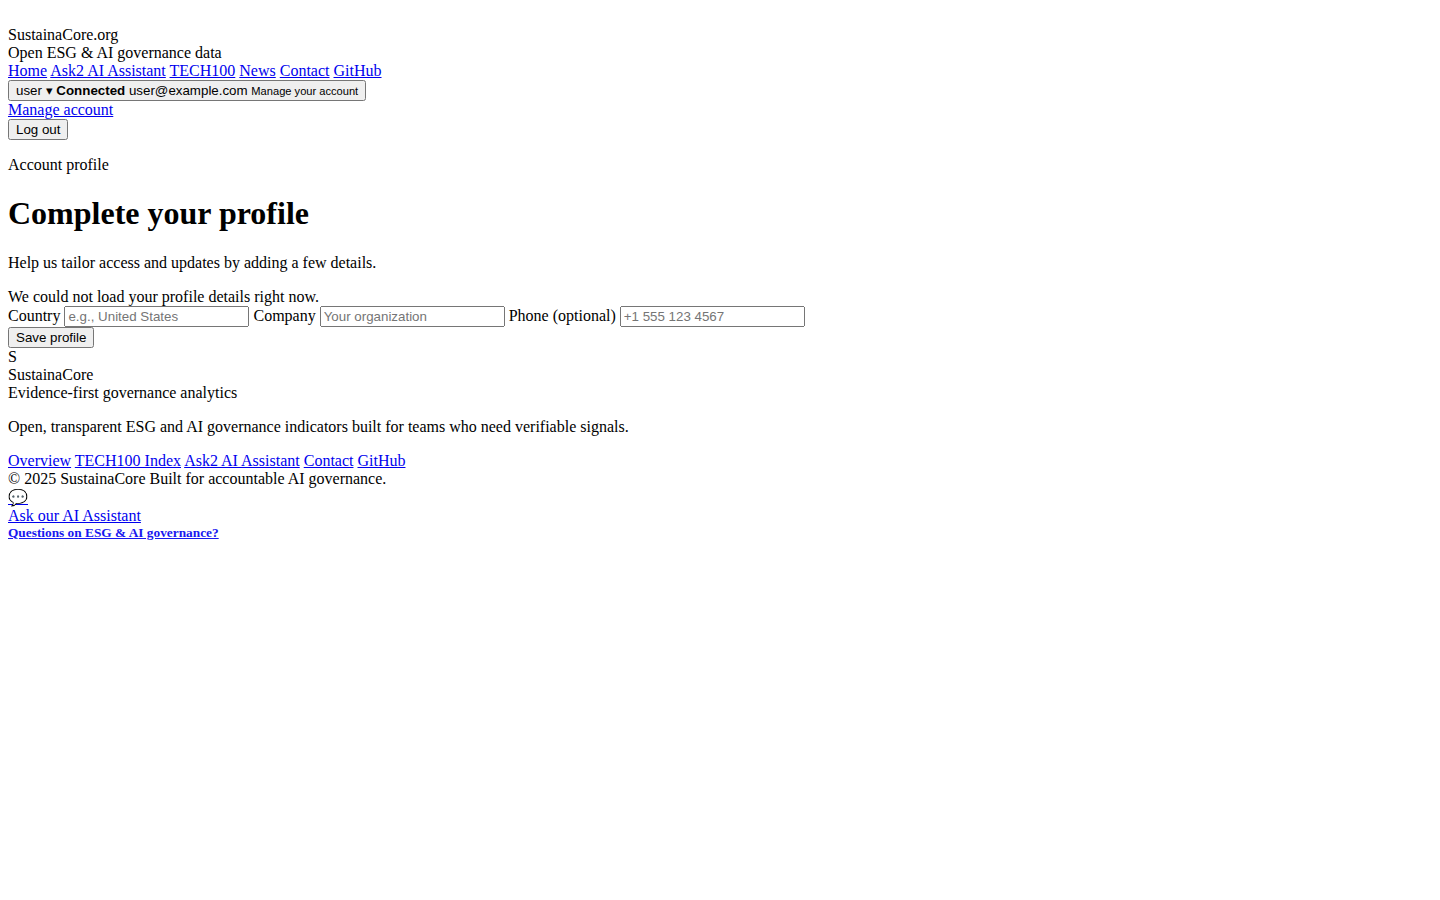
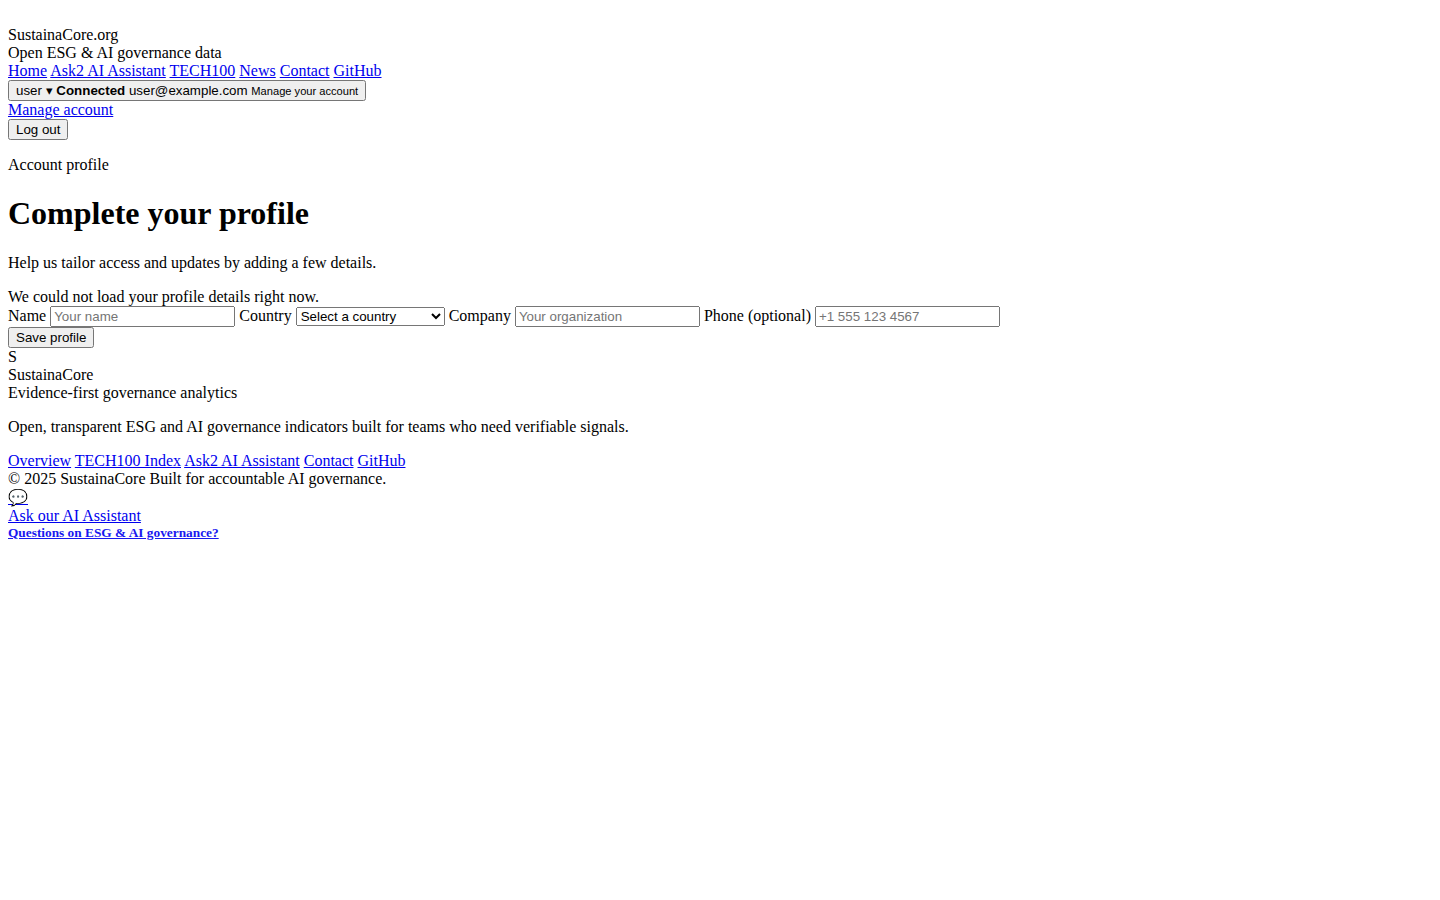
Add name field and optional profile inputs

Changed region(s): [[0.1562, 0.3422, 0.6562, 0.3733], [0.0, 0.3422, 0.125, 0.3733]]

diff --git a/website_django/templates/account.html b/website_django/templates/account.html
@@ -20,6 +20,12 @@
         </div>
         {% endif %}
 
+        {% if profile_empty and not missing_email %}
+        <div class="alert alert--info">
+            Your profile is currently empty. Add details to keep your account up to date.
+        </div>
+        {% endif %}
+
         {% if error %}
         <div class="alert alert--error">{{ error }}</div>
         {% endif %}
@@ -28,8 +34,29 @@
             <form method="post" class="auth-form">
                 {% csrf_token %}
                 <label>
+                    Name
+                    <input type="text" name="name" value="{{ profile.name }}" placeholder="Your name" {% if missing_email %}disabled{% endif %} />
+                </label>
+                <label>
                     Country
-                    <input type="text" name="country" value="{{ profile.country }}" placeholder="e.g., United States" {% if missing_email %}disabled{% endif %} />
+                    <select name="country" {% if missing_email %}disabled{% endif %}>
+                        <option value="">Select a country</option>
+                        <option value="United Kingdom" {% if profile.country == "United Kingdom" %}selected{% endif %}>United Kingdom</option>
+                        <option value="Italy" {% if profile.country == "Italy" %}selected{% endif %}>Italy</option>
+                        <option value="Brazil" {% if profile.country == "Brazil" %}selected{% endif %}>Brazil</option>
+                        <option value="United States" {% if profile.country == "United States" %}selected{% endif %}>United States</option>
+                        <option value="Canada" {% if profile.country == "Canada" %}selected{% endif %}>Canada</option>
+                        <option value="France" {% if profile.country == "France" %}selected{% endif %}>France</option>
+                        <option value="Germany" {% if profile.country == "Germany" %}selected{% endif %}>Germany</option>
+                        <option value="Spain" {% if profile.country == "Spain" %}selected{% endif %}>Spain</option>
+                        <option value="Portugal" {% if profile.country == "Portugal" %}selected{% endif %}>Portugal</option>
+                        <option value="Netherlands" {% if profile.country == "Netherlands" %}selected{% endif %}>Netherlands</option>
+                        <option value="Switzerland" {% if profile.country == "Switzerland" %}selected{% endif %}>Switzerland</option>
+                        <option value="Ireland" {% if profile.country == "Ireland" %}selected{% endif %}>Ireland</option>
+                        <option value="Australia" {% if profile.country == "Australia" %}selected{% endif %}>Australia</option>
+                        <option value="Singapore" {% if profile.country == "Singapore" %}selected{% endif %}>Singapore</option>
+                        <option value="United Arab Emirates" {% if profile.country == "United Arab Emirates" %}selected{% endif %}>United Arab Emirates</option>
+                    </select>
                 </label>
                 <label>
                     Company

diff --git a/website_django/static/css/main.css b/website_django/static/css/main.css
@@ -1323,6 +1323,7 @@ select,
 input[type="text"],
 input[type="search"],
 input[type="date"],
+input[type="tel"],
 textarea {
     width: 100%;
     min-height: 40px;

diff --git a/website_django/core/profile_data.py b/website_django/core/profile_data.py
@@ -16,6 +16,7 @@ def _ensure_profile_table(cursor: oracledb.Cursor) -> None:
             f"""
             CREATE TABLE {TABLE_NAME} (
                 email_normalized VARCHAR2(320) PRIMARY KEY,
+                name VARCHAR2(200),
                 country VARCHAR2(120),
                 company VARCHAR2(200),
                 phone VARCHAR2(80),
@@ -39,7 +40,7 @@ def get_profile(email_normalized: str) -> Optional[Dict[str, str]]:
             _ensure_profile_table(cursor)
             cursor.execute(
                 f"""
-                SELECT email_normalized, country, company, phone
+                SELECT email_normalized, name, country, company, phone
                 FROM {TABLE_NAME}
                 WHERE email_normalized = :email
                 """,
@@ -50,13 +51,24 @@ def get_profile(email_normalized: str) -> Optional[Dict[str, str]]:
                 return None
             return {
                 "email_normalized": row[0],
-                "country": row[1] or "",
-                "company": row[2] or "",
-                "phone": row[3] or "",
+                "name": row[1] or "",
+                "country": row[2] or "",
+                "company": row[3] or "",
+                "phone": row[4] or "",
             }
 
+def _normalize_optional(value: str) -> Optional[str]:
+    stripped = (value or "").strip()
+    return stripped if stripped else None
 
-def upsert_profile(email_normalized: str, country: str, company: str, phone: str) -> None:
+
+def upsert_profile(
+    email_normalized: str,
+    name: str,
+    country: str,
+    company: str,
+    phone: str,
+) -> None:
     if not email_normalized:
         return
     with get_connection() as conn:
@@ -67,6 +79,7 @@ def upsert_profile(email_normalized: str, country: str, company: str, phone: str
                 MERGE INTO {TABLE_NAME} target
                 USING (
                     SELECT :email email_normalized,
+                           :name name,
                            :country country,
                            :company company,
                            :phone phone
@@ -74,27 +87,21 @@ def upsert_profile(email_normalized: str, country: str, company: str, phone: str
                 ) src
                 ON (target.email_normalized = src.email_normalized)
                 WHEN MATCHED THEN
-                    UPDATE SET target.country = src.country,
+                    UPDATE SET target.name = src.name,
+                               target.country = src.country,
                                target.company = src.company,
                                target.phone = src.phone,
                                target.updated_at = SYSTIMESTAMP
                 WHEN NOT MATCHED THEN
-                    INSERT (email_normalized, country, company, phone, created_at, updated_at)
-                    VALUES (src.email_normalized, src.country, src.company, src.phone, SYSTIMESTAMP, SYSTIMESTAMP)
+                    INSERT (email_normalized, name, country, company, phone, created_at, updated_at)
+                    VALUES (src.email_normalized, src.name, src.country, src.company, src.phone, SYSTIMESTAMP, SYSTIMESTAMP)
                 """,
                 {
                     "email": email_normalized,
-                    "country": country,
-                    "company": company,
-                    "phone": phone,
+                    "name": _normalize_optional(name),
+                    "country": _normalize_optional(country),
+                    "company": _normalize_optional(company),
+                    "phone": _normalize_optional(phone),
                 },
             )
             conn.commit()
-
-
-def is_profile_complete(profile: Optional[Dict[str, str]]) -> bool:
-    if not profile:
-        return False
-    return bool((profile.get("country") or "").strip()) and bool(
-        (profile.get("company") or "").strip()
-    )

diff --git a/website_django/core/views.py b/website_django/core/views.py
@@ -25,7 +25,7 @@ from django.views.decorators.cache import cache_page
 
 from core.api_client import create_news_item_admin, fetch_news, fetch_news_detail, fetch_tech100
 from core.auth import apply_auth_cookie, clear_auth_cookie, is_logged_in
-from core.profile_data import get_profile, is_profile_complete, upsert_profile
+from core.profile_data import get_profile, upsert_profile
 from core.tech100_index_data import (
     get_data_mode,
     get_index_levels,
@@ -136,14 +136,6 @@ def login_code(request):
                         require_https=request.is_secure(),
                     ):
                         target = next_url
-                    else:
-                        try:
-                            profile = get_profile(email)
-                            if not is_profile_complete(profile):
-                                target = reverse("account")
-                        except Exception as exc:
-                            logger.warning("account.profile_lookup_failed", exc_info=exc)
-                            target = reverse("account")
                     response = redirect(target)
                     apply_auth_cookie(response, token, expires)
                     return response
@@ -175,9 +167,16 @@ def account(request):
     missing_email = not email
     profile = None
     error = ""
+    profile_empty = False
     if email:
         try:
             profile = get_profile(email)
+            if profile:
+                profile_empty = not any(
+                    (profile.get("name"), profile.get("country"), profile.get("company"), profile.get("phone"))
+                )
+            else:
+                profile_empty = True
         except Exception as exc:
             logger.warning("account.profile_load_failed", exc_info=exc)
             error = "We could not load your profile details right now."
@@ -185,13 +184,20 @@ def account(request):
     if request.method == "POST":
         if not email:
             return redirect(f"{reverse('login')}?next={reverse('account')}")
+        name = (request.POST.get("name") or "").strip()
         country = (request.POST.get("country") or "").strip()
         company = (request.POST.get("company") or "").strip()
         phone = (request.POST.get("phone") or "").strip()
         try:
-            upsert_profile(email, country, company, phone)
+            upsert_profile(email, name, country, company, phone)
             messages.success(request, "Profile saved.")
-            profile = {"country": country, "company": company, "phone": phone}
+            profile = {
+                "name": name,
+                "country": country,
+                "company": company,
+                "phone": phone,
+            }
+            profile_empty = not any((name, country, company, phone))
         except Exception as exc:
             logger.warning("account.profile_save_failed", exc_info=exc)
             error = "We could not save your profile right now."
@@ -200,9 +206,11 @@ def account(request):
         request,
         "account.html",
         {
-            "profile": profile or {"country": "", "company": "", "phone": ""},
+            "profile": profile
+            or {"name": "", "country": "", "company": "", "phone": ""},
             "missing_email": missing_email,
             "error": error,
+            "profile_empty": profile_empty,
         },
     )
 

diff --git a/website_django/core/tests/test_login_views.py b/website_django/core/tests/test_login_views.py
@@ -27,7 +27,7 @@ class LoginViewsTests(TestCase):
 
         response = self.client.post(reverse("login_code"), {"code": "123456"})
         self.assertEqual(response.status_code, 302)
-        self.assertEqual(response["Location"], reverse("account"))
+        self.assertEqual(response["Location"], reverse("home"))
         self.assertIn("sc_session", response.cookies)
         self.assertEqual(self.client.session.get("auth_email"), "user@example.com")
 
@@ -80,10 +80,44 @@ class LoginViewsTests(TestCase):
         self.client.cookies["sc_session"] = "token"
         response = self.client.post(
             reverse("account"),
-            {"country": "US", "company": "Acme", "phone": "555"},
+            {"name": "Alex", "country": "United States", "company": "Acme", "phone": "555"},
         )
         self.assertEqual(response.status_code, 200)
-        upsert_mock.assert_called_once_with("user@example.com", "US", "Acme", "555")
+        upsert_mock.assert_called_once_with(
+            "user@example.com",
+            "Alex",
+            "United States",
+            "Acme",
+            "555",
+        )
+
+    @mock.patch("core.views.upsert_profile")
+    @mock.patch("core.views.get_profile", return_value=None)
+    def test_account_allows_empty_profile(self, profile_mock, upsert_mock):
+        session = self.client.session
+        session["auth_email"] = "user@example.com"
+        session.save()
+        self.client.cookies["sc_session"] = "token"
+        response = self.client.post(
+            reverse("account"),
+            {"name": "", "country": "", "company": "", "phone": ""},
+        )
+        self.assertEqual(response.status_code, 200)
+        upsert_mock.assert_called_once_with("user@example.com", "", "", "", "")
+
+    @mock.patch("core.views.upsert_profile")
+    @mock.patch("core.views.get_profile", return_value=None)
+    def test_account_saves_country_only(self, profile_mock, upsert_mock):
+        session = self.client.session
+        session["auth_email"] = "user@example.com"
+        session.save()
+        self.client.cookies["sc_session"] = "token"
+        response = self.client.post(
+            reverse("account"),
+            {"name": "", "country": "Canada", "company": "", "phone": ""},
+        )
+        self.assertEqual(response.status_code, 200)
+        upsert_mock.assert_called_once_with("user@example.com", "", "Canada", "", "")
 
     def test_header_ignores_invalid_token(self):
         self.client.cookies["sc_session"] = "not-a-token"
